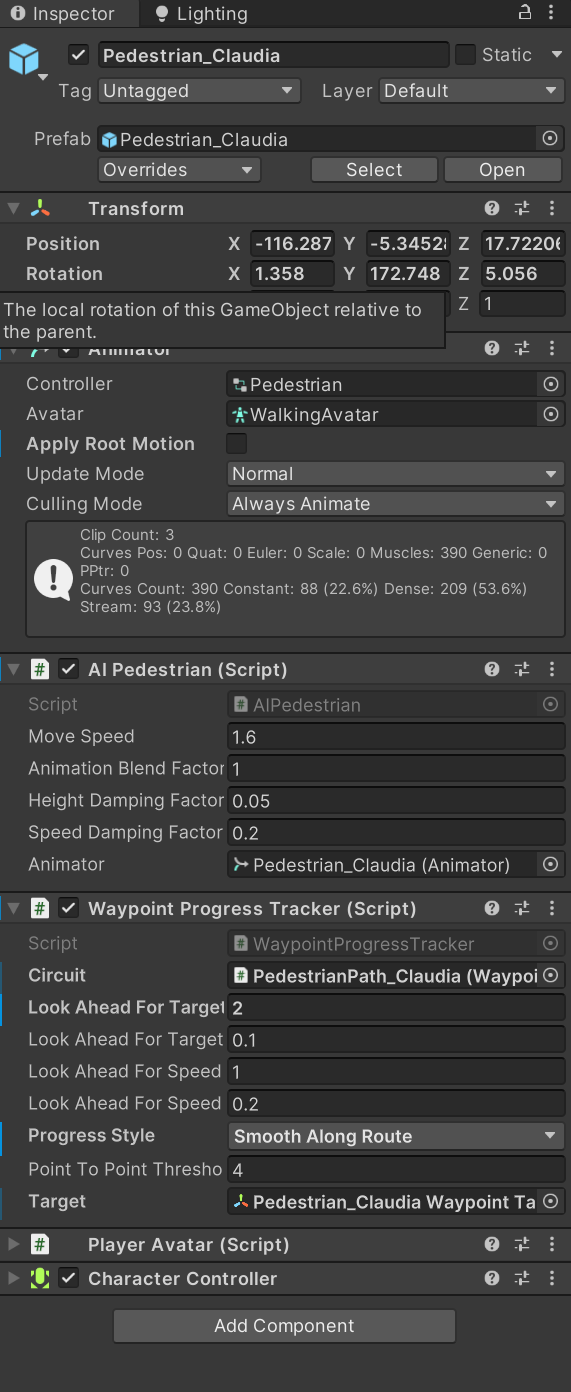
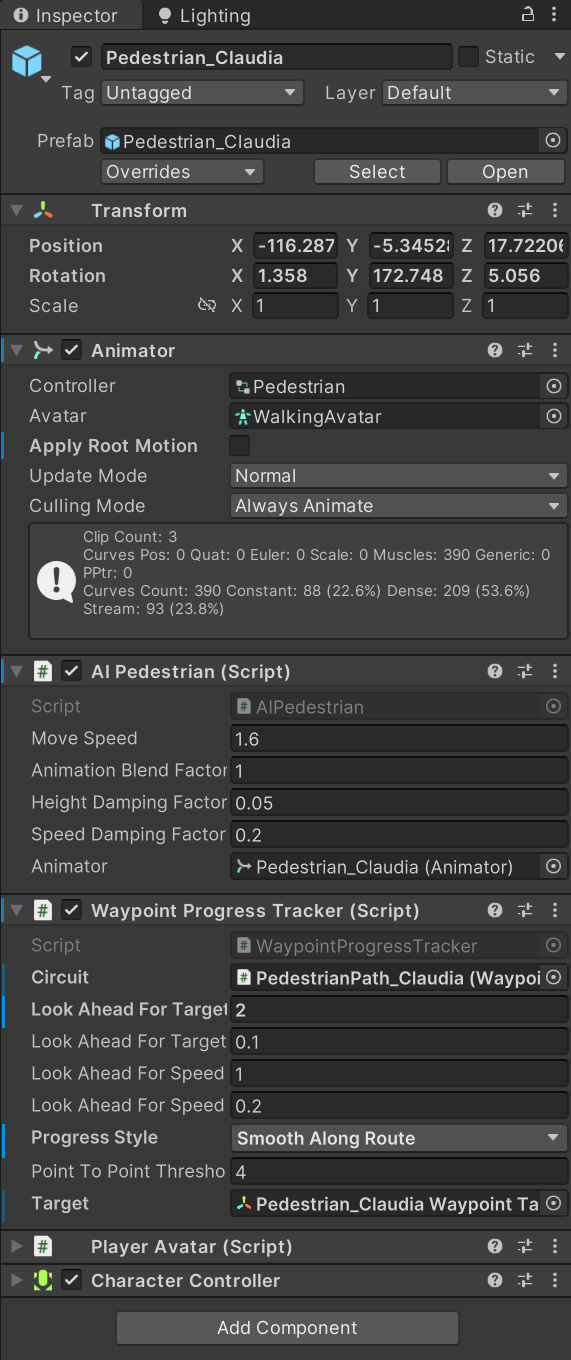
change screenshot and add caption to screenshot

Changed region(s): [[0.0, 0.0, 1.0, 0.9882]]

diff --git a/new_ReadMe.md b/new_ReadMe.md
@@ -237,6 +237,7 @@ To hide environment objects for performance:
    - Idle_Characters use Animator only.
    - Compare inspector to reference screenshot to confirm setup.
    ![Pedestrian inspector overview](READme_Images/Pedestrian_Inspector_Overview.png)
+    *Figure 1: This is what the Inspector of your pedestrian should look like. If any scripts are missing, make sure to find them in the project folder and add them to the Inspector. This is also important if you want to add new characters to the scene.*
 
 **Tip:** Multiple pedestrian failures usually indicate a controller problem; single failures may be rig or missing script issues.
 
